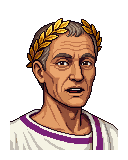
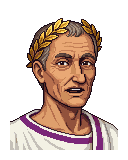
Cesar: 12 expresiones sin deformar la cara y reacciones; fuera 'narrador ficticio'
Las expresiones trasplantan solo cejas, ojos y boca sobre la cara base
(tools/cesar_caras.py). Reacciona al tema del capitulo, a lo que se dice, a
aciertos, rachas, fallos, cartas y ajustes.

diff --git a/app.js b/app.js
@@ -103,7 +103,7 @@ const levels = [
   ['Nivel 5 · Convivium et ars', 'Banquete, flota, poesía y mapa de la gramática', 28, 35]
 ];
 const bubbleText = {
-  journey: 'Salve! Soy César, narrador ficticio de este viaje. Elige un capítulo: el siguiente va en amarillo.',
+  journey: 'Salve! Soy César y te guío por el camino de Roma. Elige un capítulo: el siguiente va en amarillo.',
   cards: 'Las cartas vuelven cuando tu memoria las necesita. Revela la respuesta, dime qué tal fue y ajusto el próximo repaso.'
 };
 let openLevels = new Set();
@@ -112,6 +112,7 @@ function readState(){try{return {...defaultState,...JSON.parse(localStorage.getI
 function saveState(){localStorage.setItem('lingua-latina-v1',JSON.stringify(state));updateCounts()}
 const player=new Audio();player.preload='auto';
 ['playing'].forEach(e=>player.addEventListener(e,()=>talking(true)));['ended','pause','error'].forEach(e=>player.addEventListener(e,()=>talking(false)));
+player.addEventListener('ended',()=>{const s=lastLine;lastLine='';if(/!\s*$/.test(s))pose('surprised',1800);else if(/\?\s*$/.test(s))pose('think',1800)});
 function esc(s){return s.replace(/&/g,'&amp;').replace(/"/g,'&quot;').replace(/</g,'&lt;')}
 function speakBtn(text,voice){return text?`<button class="icon-btn" data-say="${esc(text)}" data-voice="${voice||LECTOR}" aria-label="Escuchar">🔊</button>`:''}
 function speak(text,voice){
@@ -124,13 +125,30 @@ function speak(text,voice){
 function applySlow(){const b=document.querySelector('#slow-toggle');b.classList.toggle('on',!!state.slow);b.setAttribute('aria-pressed',!!state.slow)}
 function nextChapter(){return chapters.findIndex((c,i)=>!state.completed.includes(i))}
 function say(text){document.querySelector('#bubble-text').textContent=text}
-/* César: retratos pixel art (avatar/); mueve la boca mientras suena la voz y reacciona a las respuestas */
-const POSES=['neutral','talk','pleased','think'];
+/* César: retratos pixel art (avatar/). La cara no cambia: de cada expresión solo se trasplantan cejas, ojos y
+   boca (tools/cesar_caras.py). Reacciona al tema del capítulo, a lo que se dice y a lo que haces. */
+const POSES=['neutral','talk','talk2','pleased','think','surprised','laugh','stern','worried','wink','cheer','sad'];
 POSES.forEach(n=>{new Image().src=`avatar/cesar-${n}.png`});
-let poseTimer,mouthTimer;
+/* humor de cada capítulo según su tema */
+const MOOD=['pleased','pleased','wink','stern','pleased','cheer','wink','pleased','pleased','surprised','worried','stern','think','pleased','think','worried','think','think','wink','pleased','stern','surprised','pleased','worried','surprised','worried','pleased','worried','cheer','laugh','wink','cheer','stern','think','cheer'];
+const OK_LINES=['Optime!','Bene! Así se hace.','Recte!','¡Exacto! Se nota que estudias.','Perfecte!'];
+const BAD_LINES=['Non ita. No pasa nada: así se aprende.','Casi. Mira la respuesta y sigue.','Errare humanum est… sigamos.'];
+const QUIPS=[['surprised','¡Eh! Cuidado con la corona de laurel.'],['laugh','Ave! No cobro por saludar.'],['wink','Alea iacta est. ¿Seguimos?'],['stern','Menos cosquillas y más latín.'],['think','¿Sabías que mi nombre se pronuncia «Kaisar»?']];
+let poseTimer,mouthTimer,okStreak=0,badStreak=0,lastLine='';
+const pick=a=>a[Math.floor(Math.random()*a.length)];
 function setPose(n){document.querySelector('#cesar').src=`avatar/cesar-${n}.png`}
 function pose(n,ms){clearTimeout(poseTimer);setPose(n);if(ms)poseTimer=setTimeout(()=>setPose('neutral'),ms)}
-function talking(on){const a=document.querySelector('.avatar');clearInterval(mouthTimer);a.classList.toggle('talking',on);if(on){let open=true;setPose('talk');mouthTimer=setInterval(()=>{open=!open;setPose(open?'talk':'neutral')},190)}else setPose('neutral')}
+function react(n,text,ms){pose(n,ms===undefined?2600:ms);if(text)say(text)}
+function talking(on){const a=document.querySelector('.avatar');clearInterval(mouthTimer);a.classList.toggle('talking',on);if(on){clearTimeout(poseTimer);const f=['talk','neutral','talk2','talk','neutral'];let i=0;setPose(f[0]);mouthTimer=setInterval(()=>{i=(i+1)%f.length;setPose(f[i])},170)}else setPose('neutral')}
+function reactAnswer(correct){
+  if(correct){badStreak=0;okStreak++;
+    if(okStreak%3===0)react('cheer',`¡${okStreak} seguidas! Veni, vidi, vici.`,3200);
+    else react(pick(['pleased','wink','pleased','laugh']),pick(OK_LINES),2400)}
+  else{okStreak=0;badStreak++;
+    if(badStreak>=3)react('sad','Respira, repasa la regla de arriba y vuelve a intentarlo.',3200);
+    else if(badStreak===2)react('worried',pick(BAD_LINES),2800);
+    else react('think',pick(BAD_LINES),2600)}
+}
 function updateCounts(){
   const due=state.cards.filter(c=>c.due<=Date.now()).length;
   const badge=document.querySelector('#card-count');badge.textContent=state.cards.length;badge.hidden=!state.cards.length;
@@ -141,7 +159,7 @@ function updateCounts(){
   const go=document.querySelector('#continue-button');go.firstChild.textContent=state.completed.length?'Continuar el viaje ':'Comenzar el viaje '
 }
 function showToast(message){const node=document.querySelector('#toast');node.textContent=message;node.classList.add('show');clearTimeout(toastTimer);toastTimer=setTimeout(()=>node.classList.remove('show'),2400)}
-function navigate(view){document.querySelectorAll('.view').forEach(v=>v.classList.add('hidden'));document.querySelector(`#${view}-view`).classList.remove('hidden');document.querySelectorAll('.nav-button').forEach(b=>b.classList.toggle('on',b.dataset.view===(view==='chapter'?'journey':view)));window.scrollTo(0,0);if(bubbleText[view])say(bubbleText[view]);if(view==='cards')renderReview()}
+function navigate(view){document.querySelectorAll('.view').forEach(v=>v.classList.add('hidden'));document.querySelector(`#${view}-view`).classList.remove('hidden');document.querySelectorAll('.nav-button').forEach(b=>b.classList.toggle('on',b.dataset.view===(view==='chapter'?'journey':view)));window.scrollTo(0,0);if(bubbleText[view])say(bubbleText[view]);if(view==='cards'){renderReview();const n=state.cards.filter(c=>c.due<=Date.now()).length;if(!state.cards.length)react('neutral','Aún no hay cartas: resuelve ejercicios y se guardarán solas.',0);else if(n)react('pleased',`Tienes ${n} ${n===1?'carta':'cartas'} para hoy. Empecemos, sin prisa pero sin pausa.`,2800);else react('cheer','Todo al día. Volverán cuando tu memoria las necesite.',2800)}}
 function renderChapters(){
   const next=nextChapter();
   if(!openLevels.size)openLevels.add(levels.findIndex(([,,from,to])=>next<0?from===0:next>=from&&next<to));
@@ -154,7 +172,7 @@ function renderChapters(){
   grid.querySelectorAll('.level').forEach(d=>d.addEventListener('toggle',()=>{const li=Number(d.dataset.level);d.open?openLevels.add(li):openLevels.delete(li)}));
   grid.querySelectorAll('.lesson-tile').forEach(b=>b.addEventListener('click',()=>openChapter(Number(b.dataset.chapter))))
 }
-function openChapter(index){currentChapter=index;questionIndex=0;renderChapter();navigate('chapter');say(caesarVoice[index])}
+function openChapter(index){currentChapter=index;questionIndex=0;renderChapter();navigate('chapter');react(MOOD[index],caesarVoice[index],3200)}
 function renderChapter(){
   const c=chapters[currentChapter];const p=document.querySelector('#chapter-content');
   const speakers=[...new Set(c.dialog.map(line=>line[0]))];
@@ -172,7 +190,7 @@ function roman(n){const values=[[10,'X'],[9,'IX'],[5,'V'],[4,'IV'],[1,'I']];let 
 function renderQuestion(){
   const c=chapters[currentChapter],area=document.querySelector('#exercise-area'),done=document.querySelector('#chapter-done');
   document.querySelectorAll('#steps span').forEach((s,i)=>{s.className=i<questionIndex?'done':i===questionIndex?'on':''});
-  if(questionIndex>=2){area.innerHTML='';done.classList.add('visible');say('Bene! Has terminado el capítulo. Tus cartas te esperan en su día.');pose('pleased',3200);if(!state.completed.includes(currentChapter)){state.completed.push(currentChapter);state.completed.sort((a,b)=>a-b);saveState();renderChapters()}return}
+  if(questionIndex>=2){area.innerHTML='';done.classList.add('visible');if(!state.completed.includes(currentChapter)&&state.completed.length===chapters.length-1)react('laugh','¡Has recorrido todo el camino! Veni, vidi, didici.',5000);else react('cheer','Optime! Capítulo completo. Tus cartas te esperan en su día.',3600);if(!state.completed.includes(currentChapter)){state.completed.push(currentChapter);state.completed.sort((a,b)=>a-b);saveState();renderChapters()}return}
   done.classList.remove('visible');
   const isWord=questionIndex===0;
   const prompt=isWord?`¿Qué significa <i>${c.word[0]}</i>?`:c.quiz[0];
@@ -187,7 +205,7 @@ function renderQuestion(){
     if(answered)return;answered=true;
     const selected=Number(button.dataset.index);
     area.querySelectorAll('.choice').forEach((option,i)=>{option.disabled=true;if(i===answer)option.classList.add('ok');if(i===selected&&selected!==answer)option.classList.add('bad')});
-    const correct=selected===answer;pose(correct?'pleased':'think',2400);
+    const correct=selected===answer;reactAnswer(correct);
     area.querySelector('.feedback-slot').innerHTML=`<div class="feedback ${correct?'ok':'bad'}"><h3>${correct?'Bene!':'Non ita.'}</h3><p>${correct?'Respuesta correcta. La carta se guardó.':`La respuesta correcta es: <b>${choices[answer]}</b>. La carta se guardó.`}</p></div>`;
     const front=isWord?c.word[0]:c.grammar;const back=isWord?c.word[1]:c.rule;
     upsertCard({type:isWord?'word':'grammar',chapter:currentChapter,front,back,example:isWord?c.example:c.quiz[0]});
@@ -199,10 +217,16 @@ function upsertCard(data){const id=`${data.type}-${data.chapter}-${slug(data.fro
 function slug(s){return s.normalize('NFD').replace(/[̀-ͯ]/g,'').toLowerCase().replace(/[^a-z0-9]+/g,'-')}
 function renderReview(){const due=state.cards.filter(c=>c.due<=Date.now());document.querySelector('#due-count').textContent=due.length;document.querySelector('#review-area').innerHTML='';const filters=[...document.querySelectorAll('.chip')];filters.forEach(b=>{b.classList.toggle('on',b.dataset.filter===activeFilter);b.onclick=()=>{activeFilter=b.dataset.filter;reviewIndex=0;cardIsFlipped=false;renderReview()}});let cards=activeFilter==='all'?state.cards.slice():activeFilter==='word'?state.cards.filter(c=>c.type==='word'):activeFilter==='grammar'?state.cards.filter(c=>c.type==='grammar'):due.slice();cards.sort((a,b)=>a.due-b.due);reviewQueue=cards;reviewIndex=Math.min(reviewIndex,Math.max(cards.length-1,0));if(!cards.length){const hasFuture=state.cards.length>0;document.querySelector('#review-area').innerHTML=`<div class="empty-state"><strong>${hasFuture?'Todo repasado por hoy.':'Aún no tienes cartas.'}</strong><p>${hasFuture?'Las próximas cartas aparecerán en su fecha. Puedes mirar todas tus cartas mientras tanto.':'Completa ejercicios en un capítulo para guardar cartas de palabras y gramática automáticamente.'}</p></div>`;return}drawReviewCard()}
 function drawReviewCard(){const area=document.querySelector('#review-area'),card=reviewQueue[reviewIndex];if(!card)return;const label=card.type==='word'?'Palabra':'Gramática';area.innerHTML=`<div class="card review-card"><div class="review-type">${label} · Cap. ${String(card.chapter+1).padStart(2,'0')} · ${reviewIndex+1}/${reviewQueue.length}</div><div class="front-row"><h2 class="review-front">${card.front}</h2>${card.type==='word'?speakBtn(card.front,LECTOR):''}</div>${cardIsFlipped?`<p class="review-back">${card.back}</p><p class="review-example">${card.example}</p><div class="grades"><button class="btn red" data-grade="hard">Difícil<small>1 día</small></button><button class="btn primary" data-grade="medium">Regular<small>≈ 3 días</small></button><button class="btn green" data-grade="easy">Fácil<small>≈ 7 días</small></button></div>`:`<button class="btn big flip-button">Mostrar respuesta ↓</button>`}</div>`;const flip=area.querySelector('.flip-button');if(flip)flip.onclick=()=>{cardIsFlipped=true;drawReviewCard()};area.querySelectorAll('[data-grade]').forEach(b=>b.onclick=()=>gradeCard(card,b.dataset.grade))}
-function gradeCard(card,grade){let quality=grade==='hard'?2:grade==='medium'?3:5;card.ease=Math.max(1.3,card.ease+(0.1-(5-quality)*(0.08+(5-quality)*0.02)));if(quality<3){card.repetitions=0;card.interval=1}else{card.repetitions++;if(grade==='hard')card.interval=1;else if(card.repetitions===1)card.interval=grade==='easy'?7:3;else card.interval=Math.max(1,Math.round(card.interval*card.ease*(grade==='easy'?1.25:1)))}card.due=Date.now()+card.interval*86400000;card.lastSeen=Date.now();saveState();const prev=reviewIndex;reviewQueue=reviewQueue.filter(c=>c.id!==card.id);reviewIndex=Math.min(prev,reviewQueue.length-1);cardIsFlipped=false;renderReview();showToast(`Próximo repaso: ${card.interval} ${card.interval===1?'día':'días'}.`)}
+function gradeCard(card,grade){let quality=grade==='hard'?2:grade==='medium'?3:5;card.ease=Math.max(1.3,card.ease+(0.1-(5-quality)*(0.08+(5-quality)*0.02)));if(quality<3){card.repetitions=0;card.interval=1}else{card.repetitions++;if(grade==='hard')card.interval=1;else if(card.repetitions===1)card.interval=grade==='easy'?7:3;else card.interval=Math.max(1,Math.round(card.interval*card.ease*(grade==='easy'?1.25:1)))}card.due=Date.now()+card.interval*86400000;card.lastSeen=Date.now();saveState();const prev=reviewIndex;reviewQueue=reviewQueue.filter(c=>c.id!==card.id);reviewIndex=Math.min(prev,reviewQueue.length-1);cardIsFlipped=false;renderReview();showToast(`Próximo repaso: ${card.interval} ${card.interval===1?'día':'días'}.`);if(!reviewQueue.length&&activeFilter==='due')react('cheer','¡Todo repasado por hoy! Optime.',3600);else if(grade==='hard')react('worried','Difícil, ¿eh? Volverá pronto: así se fija.',2600);else if(grade==='easy')react(pick(['wink','pleased']),pick(['Facile!','Te la sabes. Sigamos.']),2400);else react('pleased','Bene. La veremos de nuevo en unos días.',2400)}
 document.querySelectorAll('[data-view]').forEach(b=>b.addEventListener('click',()=>navigate(b.dataset.view)));
 document.querySelector('.logo').addEventListener('click',e=>{e.preventDefault();navigate('journey')});
 document.querySelector('#continue-button').addEventListener('click',()=>{const next=nextChapter();openChapter(next<0?0:next)});
-document.addEventListener('click',e=>{const b=e.target.closest('[data-say]');if(b)speak(b.dataset.say,b.dataset.voice)});
-document.querySelector('#slow-toggle').addEventListener('click',()=>{state.slow=!state.slow;saveState();applySlow();showToast(state.slow?'Voz lenta activada.':'Voz a velocidad normal.')});
-renderChapters();updateCounts();applySlow();say(bubbleText.journey);
+document.addEventListener('click',e=>{const b=e.target.closest('[data-say]');if(b){lastLine=b.closest('.msg')?b.dataset.say:'';speak(b.dataset.say,b.dataset.voice)}});
+document.querySelector('#slow-toggle').addEventListener('click',()=>{state.slow=!state.slow;saveState();applySlow();showToast(state.slow?'Voz lenta activada.':'Voz a velocidad normal.');react(state.slow?'wink':'pleased',state.slow?'Festina lente: apresúrate despacio.':'A buen paso entonces.',2400)});
+document.querySelector('.avatar').addEventListener('click',()=>{const [p,s]=pick(QUIPS);react(p,s,2600)});
+renderChapters();updateCounts();applySlow();
+const away=state.lastVisit?(Date.now()-state.lastVisit)/864e5:0;
+if(state.completed.length&&away>=3)react('surprised',`¡Han pasado ${Math.floor(away)} días! Repasemos antes de seguir.`,4000);
+else if(state.completed.length)react('pleased','Salve de nuevo. Sigamos donde lo dejamos.',3000);
+else say(bubbleText.journey);
+state.lastVisit=Date.now();saveState();

diff --git a/index.html b/index.html
@@ -20,7 +20,7 @@
   </header>
 
   <div class="wrap">
-    <aside class="side" aria-label="Narrador">
+    <aside class="side" aria-label="César, tu guía">
       <div class="avatar" aria-hidden="true"><img id="cesar" src="avatar/cesar-neutral.png" width="128" height="160" alt=""></div>
       <div class="bubble" id="bubble"><span class="who">Caesar</span><span id="bubble-text"></span></div>
     </aside>
@@ -30,7 +30,7 @@
         <div class="card hero">
           <div class="kicker">Roma · 753 a. C. — 476 d. C.</div>
           <h1>Una lengua, un imperio.</h1>
-          <p>Aprende latín paso a paso, siguiendo el camino de una familia romana. Cada capítulo trae un diálogo, una regla breve y dos ejercicios que se convierten en cartas para repasar. <span class="muted small">Cayo Julio César es un narrador ficticio.</span></p>
+          <p>Aprende latín paso a paso, siguiendo el camino de una familia romana. Cada capítulo trae un diálogo, una regla breve y dos ejercicios que se convierten en cartas para repasar.</p>
           <button id="continue-button" class="btn primary big">Comenzar el viaje <span aria-hidden="true">▶</span></button>
         </div>
         <div class="stat-row">

diff --git a/style.css b/style.css
@@ -43,6 +43,7 @@ a { color: inherit; }
 .side { position: sticky; top: 84px; align-self: start; }
 .avatar { width: 256px; margin: 0 auto; filter: drop-shadow(0 10px 18px rgba(0,0,0,.35)); }
 .avatar img { display: block; width: 100%; height: auto; image-rendering: pixelated; image-rendering: crisp-edges; }
+.avatar { cursor: pointer; }
 .avatar.talking { animation: talkbob .32s ease-in-out infinite; }
 @keyframes talkbob { 50% { transform: translateY(-2px); } }
 .bubble { position: relative; margin-top: 14px; background: var(--paper); color: var(--ink); border-radius: var(--radius); padding: 14px 16px; box-shadow: var(--shadow); font-size: 16px; min-height: 64px; }

diff --git a/tools/cesar_caras.py b/tools/cesar_caras.py
@@ -1,0 +1,77 @@
+"""Expresiones de César sin deformar la cara.
+
+PixelLab (edit_image_pixen) repinta toda la imagen en cada edición: la mandíbula, el tono de piel y hasta
+los reflejos de la corona cambian un poco. Aquí la cara base queda intacta y, de cada expresión, solo se
+trasplantan las cejas y los ojos y la boca; esos píxeles se ajustan a la paleta de la base.
+
+    python tools/cesar_caras.py avatar/cesar-neutral.png avatar/fuentes avatar          # todas
+    python tools/cesar_caras.py base.png fuentes salida talk think                       # solo algunas
+
+Cada fuente es <pose>.png, de 128x160, la base editada por PixelLab (descripción: «Same man ... Change only
+the face: ...»). Necesita Pillow y numpy."""
+import os, sys
+import numpy as np
+from PIL import Image, ImageFilter
+
+# zonas de la cara que cambian con la emoción (x0, y0, x1, y1), en píxeles de la imagen de 128x160
+CEJAS_OJOS = (55, 52, 96, 74)
+BOCA = (61, 86, 93, 106)
+BORDE = 3  # el contorno de la cara no se toca: se erosiona la silueta 3 píxeles
+
+
+def a_lab(rgb):
+    c = rgb / 255.0
+    c = np.where(c > 0.04045, ((c + 0.055) / 1.055) ** 2.4, c / 12.92)
+    m = np.array([[0.4124, 0.3576, 0.1805], [0.2126, 0.7152, 0.0722], [0.0193, 0.1192, 0.9505]])
+    xyz = c @ m.T / np.array([0.95047, 1.0, 1.08883])
+    f = np.where(xyz > 0.008856, np.cbrt(xyz), 7.787 * xyz + 16 / 116)
+    return np.stack([116 * f[..., 1] - 16, 500 * (f[..., 0] - f[..., 1]), 200 * (f[..., 1] - f[..., 2])], -1)
+
+
+def desplazamiento(base, fuente):
+    """(dx, dy) que alinea la fuente con la base, medido en la túnica (que no cambia)."""
+    zona = (slice(128, 156), slice(20, 110))
+    b = base[zona][..., :3].astype(float)
+    mejor = (1e18, 0, 0)
+    for dy in range(-2, 3):
+        for dx in range(-2, 3):
+            s = np.roll(np.roll(fuente, dy, 0), dx, 1)[zona][..., :3].astype(float)
+            e = ((s - b) ** 2).sum()
+            if e < mejor[0]:
+                mejor = (e, dx, dy)
+    return mejor[1], mejor[2]
+
+
+def trasplanta(base_img, fuente_img):
+    base = np.asarray(base_img.convert('RGBA'))
+    fuente = np.asarray(fuente_img.convert('RGBA'))
+    dx, dy = desplazamiento(base, fuente)
+    fuente = np.roll(np.roll(fuente, dy, 0), dx, 1)
+    alfa = Image.fromarray(((base[..., 3] > 0) * 255).astype('uint8')).filter(ImageFilter.MinFilter(2 * BORDE + 1))
+    interior = np.asarray(alfa) > 0
+    zona = np.zeros(interior.shape, bool)
+    for x0, y0, x1, y1 in (CEJAS_OJOS, BOCA):
+        zona[y0:y1, x0:x1] = True
+    zona &= interior & (fuente[..., 3] > 0)
+    paleta = np.unique(base[base[..., 3] > 0][:, :3], axis=0)
+    lab_paleta = a_lab(paleta.astype(float))
+    out = base.copy()
+    ys, xs = np.nonzero(zona)
+    lab = a_lab(fuente[ys, xs, :3].astype(float))
+    cerca = ((lab[:, None, :] - lab_paleta[None, :, :]) ** 2).sum(-1).argmin(1)
+    out[ys, xs, :3] = paleta[cerca]
+    return Image.fromarray(out), (dx, dy), int(zona.sum())
+
+
+if __name__ == '__main__':
+    base, fuentes, salida = sys.argv[1:4]
+    solo = set(sys.argv[4:])
+    b = Image.open(base)
+    os.makedirs(salida, exist_ok=True)
+    for f in sorted(os.listdir(fuentes)):
+        pose, ext = os.path.splitext(f)
+        if ext != '.png' or (solo and pose not in solo):
+            continue
+        img, desp, n = trasplanta(b, Image.open(os.path.join(fuentes, f)))
+        img.save(os.path.join(salida, f'cesar-{pose}.png'))
+        print(pose, 'desplazamiento', desp, 'píxeles trasplantados', n)

diff --git a/README.md b/README.md
@@ -11,7 +11,7 @@ Las lecciones y las cartas funcionan en un navegador moderno sin instalación. E
 ## Cómo funciona
 
 - 35 niveles siguen los temas de los capítulos.
-- Cada nivel presenta una regla breve, vocabulario y un diálogo original con traducción. Julio César es un narrador ficticio.
+- Cada nivel presenta una regla breve, vocabulario y un diálogo original con traducción. Cayo Julio César te guía por el viaje.
 - Resolver ejercicios guarda automáticamente cartas de palabras y de gramática.
 - En **Mis cartas**, revela la respuesta y elige **Difícil**, **Regular** o **Fácil**. El próximo intervalo se ajusta con repetición espaciada inspirada en SM-2.
 - Diez escenas pixel art acompañan los diálogos. Cada una incluye PNG y proyecto editable de Pixelorama (`.pxo`).
@@ -20,7 +20,7 @@ Las lecciones y las cartas funcionan en un navegador moderno sin instalación. E
 
 ## Estilo y tipografías
 
-La interfaz comparte el estilo de [Ruso Advance](https://ontoterrorist.github.io/ruso/): fondo violeta, tarjetas color crema, acento amarillo y un narrador en el lateral. Usa las fuentes PT Sans y Unbounded (licencia SIL OFL), incluidas en `fonts/` con subconjuntos latino y latino extendido para las vocales largas (ā, ē, ī, ō, ū).
+La interfaz comparte el estilo de [Ruso Advance](https://ontoterrorist.github.io/ruso/): fondo violeta, tarjetas color crema, acento amarillo y César como guía en el lateral. Usa las fuentes PT Sans y Unbounded (licencia SIL OFL), incluidas en `fonts/` con subconjuntos latino y latino extendido para las vocales largas (ā, ē, ī, ō, ū).
 
 ## Voz
 
